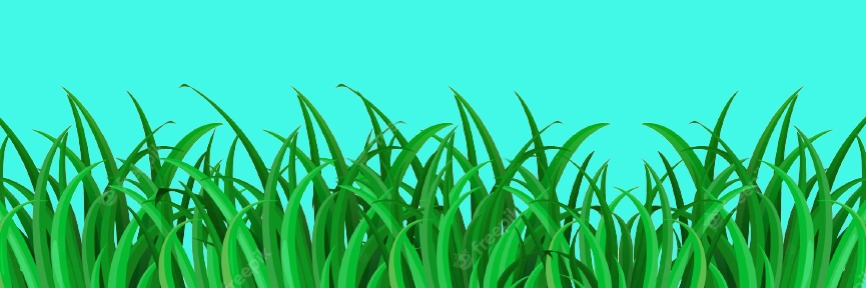
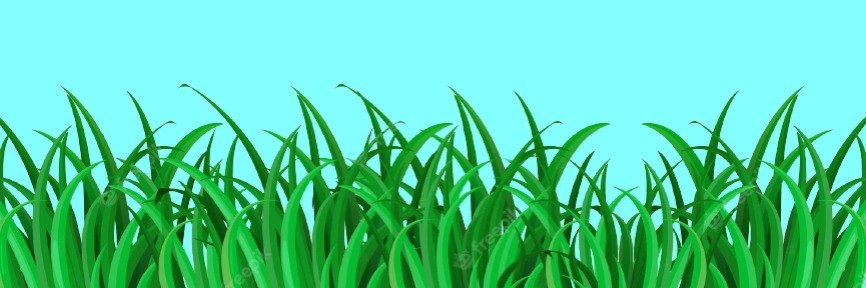
added browser router, login/signup page

diff --git a/client/src/components/Register/Register.js b/client/src/components/Register/Register.js
@@ -1,0 +1,29 @@
+import React from 'react'
+import './Register.css';
+import Navbar from '../Navbar/Navbar';
+import { NavLink } from 'react-router-dom';
+
+const Register = () => {
+  return (
+    <>
+    <Navbar/>
+    <div className="register_box">
+        <form action="">
+            <h1 align="center">Register</h1>
+            <br /><br />
+            <span>Name: <input type="name" name="name" placeholder='Enter Name' /></span>
+            <br /><br />
+            <span>Email: <input type="email" name="email" placeholder='Enter Email' /></span>
+            <br /><br />
+            <span>Password: <input type="password" name="password" placeholder='Enter password' /></span>
+            <br /><br />
+            <input type="submit" name="submit" id="submit" />
+        </form>
+        <br /><br />
+        Already have an account ? <NavLink to='/login'>Login</NavLink>
+    </div>
+    </>
+  )
+}
+
+export default Register

diff --git a/client/src/components/Login/Login.js b/client/src/components/Login/Login.js
@@ -1,0 +1,28 @@
+import React from 'react'
+import './Login.css';
+import Navbar from '../Navbar/Navbar';
+import { NavLink } from 'react-router-dom';
+
+
+const Login = () => {
+  return (
+    <>
+    <Navbar/>
+    <div className="register_box">
+        <form action="">
+            <h1 align="center">Login</h1>
+            <br /><br />
+            <span>Email: <input type="email" name="email" placeholder='Enter Email' /></span>
+            <br /><br />
+            <span>Password: <input type="password" name="password" placeholder='Enter password' /></span>
+            <br /><br />
+            <input type="submit" name="submit" id="submit" />
+        </form>
+        <br /><br />
+        Don't have an account ? <NavLink to='/register'>Register</NavLink>
+    </div>
+    </>    
+  )
+}
+
+export default Login

diff --git a/client/src/components/Home/Home.css b/client/src/components/Home/Home.css
@@ -1,7 +1,8 @@
 body{
-    background-color: rgb(116, 245, 245);
-    background-image: linear-gradient(to right bottom, #7fffd4, #77fdde, #73fbe7, #72f8ef, #74f5f5);
-    background-image: radial-gradient(circle, #7fffd4, #77fdde, #73fbe7, #18f6e7, #74f5f5);
+    /* background-color: rgb(116, 245, 245); */
+    /* background-image: linear-gradient(to right bottom, #7fffd4, #77fdde, #73fbe7, #72f8ef, #74f5f5); */
+    /* background-image: radial-gradient(circle, #7fffd4, #77fdde, #73fbe7, #18f6e7, #74f5f5); */
+    background-color:rgb(131, 255, 255);
 }
 
 .home_container{
@@ -51,5 +52,5 @@ body{
     height:100px;
 }
 .last_grass{
-    margin-left: -190px;
+    margin-left: -170px;
 }

diff --git a/client/src/components/Navbar/Navbar.css b/client/src/components/Navbar/Navbar.css
@@ -1,12 +1,12 @@
 .nav{
     height:70px;
     width:100%;
-    background-color:aquamarine;
+    background-color:rgb(153, 207, 246);
     position: absolute;
     top:0;
     left:0;
     right:0;
-    border-bottom: 2px solid green;
+    /* border-bottom: 2px solid green; */
 }
 .nav_items{
     display: flex;
@@ -24,6 +24,12 @@
     display: inline-block;
     padding: 10px;
     line-height: 70px;
-    color: green;
+    color: rgb(0, 5, 101);
+    font-weight: bold;
     font-size: 18px;
+    cursor: pointer;
+}
+.nav_items ul li a{
+    text-decoration: none;
+    color:rgb(0, 5, 101); ;
 }

diff --git a/client/src/App.js b/client/src/App.js
@@ -1,11 +1,19 @@
+import { Routes , Route} from 'react-router-dom';
 import './App.css';
 import Home from './components/Home/Home';
+import Register from './components/Register/Register';
+import Login from './components/Login/Login';
 
 function App() {
   return (
     <>
+    <Routes>
     {/* <Navbar/> */}
-    <Home/>
+    <Route path='/' element={<Home/>}/>
+    <Route path='/register' element={<Register/>}/>
+    <Route path='/login' element={<Login/>}/>
+    {/* <Home/> */}
+    </Routes>
     </>
   );
 }

diff --git a/client/src/components/Register/Register.css b/client/src/components/Register/Register.css
@@ -1,0 +1,25 @@
+.register_box{
+    height:310px;
+    width:300px;
+    /* border:2px solid black; */
+    border-radius: 10px;
+    position: absolute;
+    top: 50%;
+    left:50%;
+    transform: translate(-50%, -50%);
+    background-color:rgb(153, 207, 246);
+    padding: 10px;
+}
+.register_box h1{
+    font-size: 20px;
+}
+.register_box input{
+    padding: 5px;
+    border: none;
+}
+
+#submit{
+    padding: 7px;
+    cursor: pointer;
+    border-radius: 5px;
+}

diff --git a/client/src/components/Navbar/Navbar.js b/client/src/components/Navbar/Navbar.js
@@ -1,14 +1,15 @@
 import React from 'react'
 import './Navbar.css';
+import { NavLink } from 'react-router-dom';
 
 const Navbar = () => {
   return (
     <div className='nav'>
       <div className="nav_items">
         <ul>
-            <li>Home</li>
+            <li><NavLink to='/'>Home</NavLink></li>
             <li>Diaries</li>
-            <li>Auth</li>
+            <li><NavLink to='/login'>Auth</NavLink></li>
         </ul>
       </div>
     </div>

diff --git a/client/src/index.js b/client/src/index.js
@@ -3,11 +3,14 @@ import ReactDOM from 'react-dom/client';
 import './index.css';
 import App from './App';
 import reportWebVitals from './reportWebVitals';
+import { BrowserRouter } from 'react-router-dom';
 
 const root = ReactDOM.createRoot(document.getElementById('root'));
 root.render(
   <React.StrictMode>
+    <BrowserRouter>
     <App />
+    </BrowserRouter>
   </React.StrictMode>
 );
 

diff --git a/client/src/components/Home/Home.js b/client/src/components/Home/Home.js
@@ -3,7 +3,6 @@ import Footer from '../Footer/Footer'
 import './Home.css';
 import Navbar from '../Navbar/Navbar';
 import grass from '../Assets/grass_color.jpg'
-import cloud from '../Assets/cloud.jpg'
 
 const Home = () => {
     return (

diff --git a/client/src/components/Footer/Footer.css b/client/src/components/Footer/Footer.css
@@ -5,7 +5,7 @@
 
 .footer{
     height:70px;
-    background-color: aquamarine;
+    background-color:rgb(68, 2, 2);
     position: absolute;
     width: 100%;
     bottom:0;
